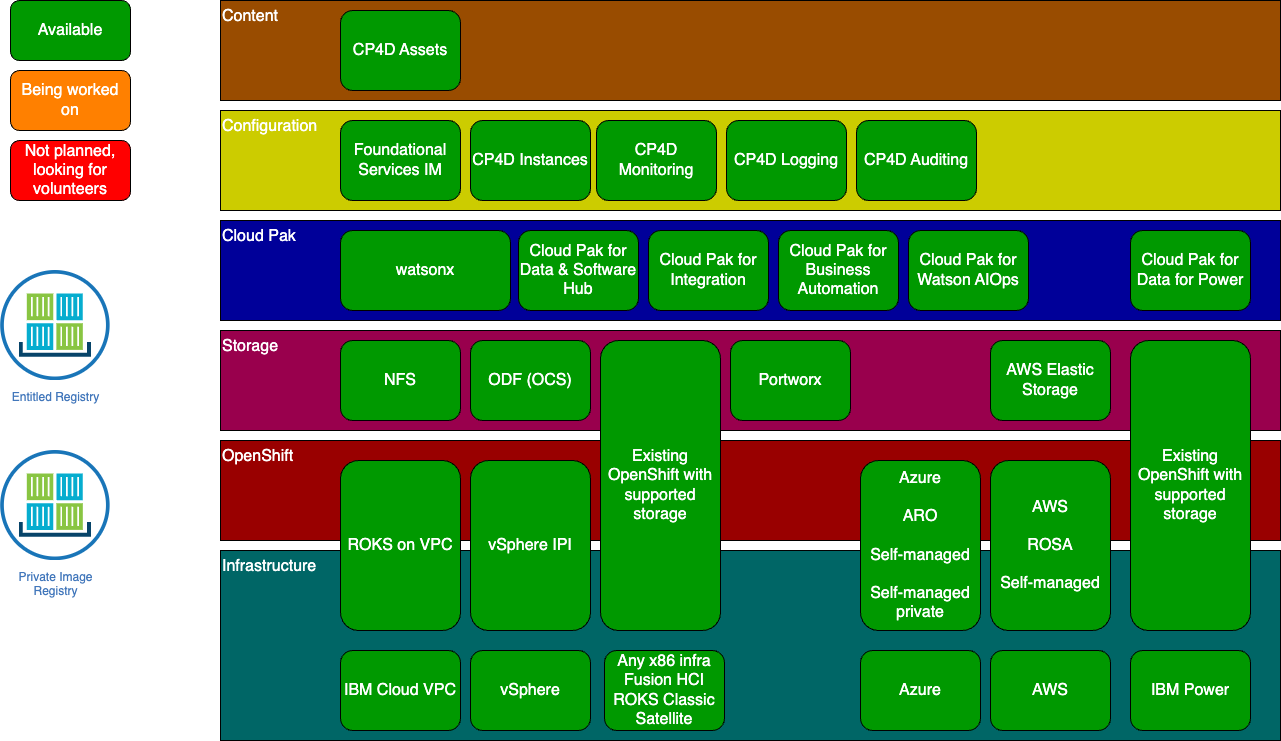
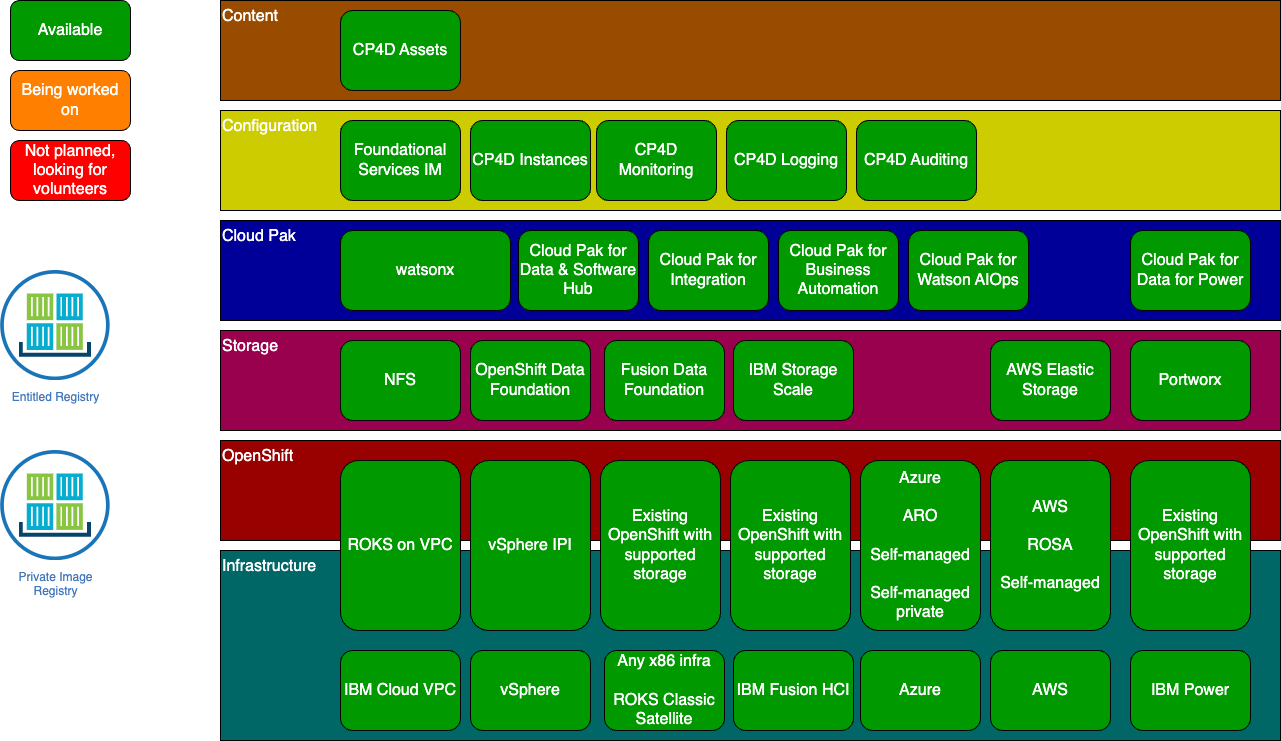
#913 Fusion documentation

diff --git a/docs/src/10-use-deployer/3-run/ibm-fusion.md b/docs/src/10-use-deployer/3-run/ibm-fusion.md
@@ -1,6 +1,11 @@
-# Running the Cloud Pak Deployer on Fusion HCI (Spectrum Scale)
+# Running the Cloud Pak Deployer on Fusion SDS and Fusion HCI
 
-This guide provides detailed instructions on using Cloud Pak Deployer (CPD) on Fusion HCI using Spectrum Scale as the storage backend.
+This guide provides detailed instructions on using Cloud Pak Deployer on Fusion Software Defined Storage (SDS) and Fusion Hyper-Converged Infrastructure (HCI).
+
+Fusion SDS (Software Defined Storage) is an IBM software offering that provides different storage options for file, block and object storage. The two storage options are: 
+
+* Fusion Data Foundation - this integrates Ceph for block and file storage with rook-ceph for object storage and NooBaa as a gateway to external object storage providers.
+* IBM Storage Scale - this is the high-performance clustered file system, formerly known as Spectrum Scale and GPFS.
 
 Fusion HCI (Hyper-Converged Infrastructure) is an IBM offering that combines compute, storage, and networking resources into a single, pre-configured system. It simplifies IT infrastructure management and is optimized for deploying containerized applications. Notably, Fusion HCI integrates OpenShift, a leading container orchestration platform, for streamlined development and deployment.
 The stack is very simple : 
@@ -9,18 +14,17 @@ The stack is very simple :
 - RedHat CoreOS
 - OpenShift
 
-![FUSION HCI Architecture](images/spectrum-hci-architecture.png)
+![Fusion SDS Architecture](images/fusion-sds.png)
 
 !!! info
 
-    This guide detail the process of installing CPD on a Spectrum HCI using Spectrum Scale as the underlying storage solution. Fusion HCI offers the option to deploy ODF but it's not covedered here, follow classic OCP+ODF guides.
-    IBM Storage Fusion HCI System use ibm-storage-fusion-cp-sc storage class and is created by default on this environment.
+    This guide detail the process of installing Cloud Pak for Data on a Fusion HCI using Storage Scale as the underlying storage solution. Fusion SDS also offers the option to deploy FDF. IBM Storage Scale uses ibm-storage-fusion-cp-sc storage class and is created by default on this environment.
 
 
 There are 5 main steps to run the deployer for Fusion HCI
 
 1. [Configure deployer](#1-configure-deployer)
-2. [Prepare the cloud environment](#2-prepare-the-cloud-environment)
+2. [Prepare the infrastructure](#2-prepare-the-infrastructure)
 3. [Obtain entitlement keys and secrets](#3-acquire-entitlement-keys-and-secrets)
 4. [Set environment variables and secrets](#4-set-environment-variables-and-secrets)
 5. [Run the deployer](#5-run-the-deployer)
@@ -30,15 +34,17 @@ There are 5 main steps to run the deployer for Fusion HCI
 ### Deployer configuration and status directories
 Deployer reads the configuration from a directory you set in the `CONFIG_DIR` environment variable. A status directory (`STATUS_DIR` environment variable) is used to log activities, store temporary files, scripts. If you use a File Vault (default), the secrets are kept in the `$STATUS_DIR/vault` directory.
 
-
-Discover sample configuration YAML files for OpenShift and Cloud Pak here: [sample configuration](https://github.com/IBM/cloud-pak-deployer/tree/main/sample-configurations/sample-dynamic/config-samples). To set up FusionHCI, transfer the fusion-hci.yaml files to the $CONFIG_DIR/config directory. If you're interested in installing WatsonX as well, choose one of the watsonx-*.yaml files and copy it accordingly.
+Discover sample configuration YAML files for OpenShift and Cloud Pak here: [sample configuration](https://github.com/IBM/cloud-pak-deployer/tree/main/sample-configurations/sample-dynamic/config-samples). To set up Fusion SDS, transfer the ocp-fusion-storage-scale.yaml file to the $CONFIG_DIR/config directory. If you're interested in installing watsonx as well, choose one of the watsonx-*.yaml files and copy it accordingly.
 
 Example:
 ``` { .bash .copy }
 mkdir -p $HOME/cpd-config/config
-cp sample-configurations/sample-dynamic/config-samples/fusion-hci.yaml $HOME/cpd-config/config/
+cp sample-configurations/sample-dynamic/config-samples/ocp-fusion-storage-scale.yaml $HOME/cpd-config/config/
 cp sample-configurations/sample-dynamic/config-samples/watsonx-480.yaml $HOME/cpd-config/config/
 ```
+
+!!! attention
+    Make sure you review the storage classes in the config files to match your cluster.
 
 ### Set configuration and status directories environment variables
 Cloud Pak Deployer uses the status directory to log its activities and also to keep track of its running state. For a given environment you're provisioning or destroying, you should always specify the same status directory to avoid contention between different deploy runs. 
@@ -56,7 +62,7 @@ If the deployer configuration is kept on GitHub, follow the instructions in [Git
 
 For special configuration with defaults and dynamic variables, refer to [Advanced configuration](../../50-advanced/advanced-configuration.md#using-dynamic-variables-extra-variables).
 
-## 2. Prepare the cloud environment
+## 2. Prepare the infrastructure
 
 No steps should be required to prepare the infrastructure; this type of installation expects the OpenShift cluster to be up and running with the supported storage classes.
 

diff --git a/docs/src/index.md b/docs/src/index.md
@@ -1,7 +1,17 @@
 # Cloud Pak Deployer
-The intention of the Cloud Pak Deployer is to simplify the initial installation and also continuous management of OpenShift, watsonx and the IBM Cloud Paks on top of that, driven by automation. It will help you deploy watsonx, Cloud Pak for Data, Cloud Pak for Integration, Cloud Pak for Business Automation and Cloud Pak for Watson AIOps on various OpenShift and infrastructures such as IBM Cloud ROKS, Azure Red Hat OpenShift (ARO), Red Hat OpenShift on AWS (ROSA), vSphere and also existing OpenShift.
+The intention of the Cloud Pak Deployer is to simplify the initial installation and also continuous management of OpenShift, watsonx and the IBM Cloud Paks on top of that, driven by automation. It will help you deploy watsonx, Cloud Pak for Data, Cloud Pak for Integration, Cloud Pak for Business Automation and Cloud Pak for Watson AIOps on various OpenShift and infrastructures:
 
-The Cloud Pak Deployer was created for a joint project with one of our key partners who need to fully automate the deployment of IBM containerized software based on a configuration that is kept in a Git repository. As additional needs for the deployed environment surface, the configuration is changed, committed, approved and then changes are deployed without destroying the current environment.
+* IBM Cloud ROKS
+* IBM Fusion HCI
+* Azure Red Hat OpenShift (ARO)
+* Azure self-managed Red Hat OpenShift
+* Red Hat OpenShift on AWS (ROSA)
+* AWS self-managed Red Hat OpenShift
+* vSphere
+* Existing OpenShift on x86
+* Existing OpenShift on IBM Power
+
+Cloud Pak Deployer was created for a joint project with one of our key partners who need to fully automate the deployment of IBM containerized software based on a configuration that is kept in a Git repository. As additional needs for the deployed environment surface, the configuration is changed, committed, approved and then changes are deployed without destroying the current environment.
 
 > "If we have seen a screen during deployment, it means something has failed"
 
